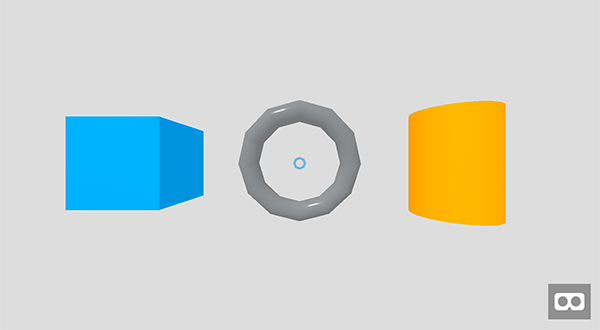
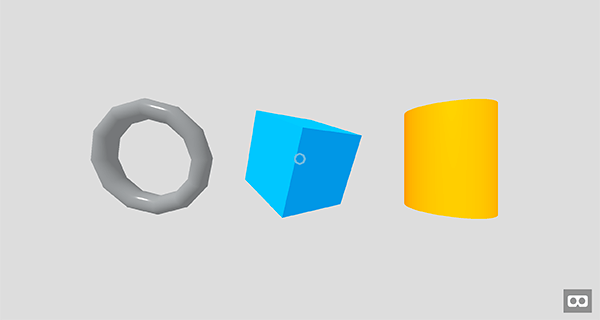
A-Frame: updated shape animations

diff --git a/A-Frame/shapes.html b/A-Frame/shapes.html
@@ -8,14 +8,14 @@
 <body>
   <a-scene>
     <a-sky color="#DDDDDD"></a-sky>
-    <a-entity light="type: directional; color: #FFF; intensity: 0.3" position="-1 1 2"></a-entity>
-    <a-entity light="type: ambient; color: #fff"></a-entity>
+    <a-light type="directional" color="#FFF" intensity="0.5" position="-1 1 2"></a-light>
+    <a-light type="ambient" color="#FFF"></a-light>
     <a-camera position="0 1 4" cursor-visible="true" cursor-scale="2" cursor-color="#0095DD" cursor-opacity="0.5"></a-camera>
-    <a-cube color="#0095DD" rotation="0 0 0" position="-3 1 0">
-      <a-animation attribute="rotation" from="20 0 0" to="20 360 0" dur="4000" repeat="indefinite" easing="linear"></a-animation>
+    <a-cube color="#0095DD" rotation="20 40 0" position="0 1 0">
+      <a-animation attribute="rotation" from="20 0 0" to="20 360 0" direction="alternate" dur="4000" repeat="indefinite" easing="ease"></a-animation>
     </a-cube>
-    <a-entity geometry="primitive: torus; radius: 1; radiusTubular: 0.1; segmentsTubular: 12;" material="color: #EAEFF2; roughness: 0.1; metalness: 0.5;" rotation="10 0 0" position="0 1 0">
-    <a-animation attribute="scale" to="1 0 1" easing="ease-out" direction="alternate" dur="2000" repeat="indefinite"></a-animation>
+    <a-entity geometry="primitive: torus; radius: 1; radiusTubular: 0.1; segmentsTubular: 12;" material="color: #EAEFF2; roughness: 0.1; metalness: 0.5;" rotation="10 0 0" position="-3 1 0">
+    <a-animation attribute="scale" to="1 0.5 1" direction="alternate" dur="2000" repeat="indefinite" easing="linear"></a-animation>
     </a-entity>
   </a-scene>
   <script>

diff --git a/A-Frame/cube.html b/A-Frame/cube.html
@@ -8,7 +8,7 @@
 <body>
 	<a-scene>
 		<a-sky color="#DDDDDD"></a-sky>
-		<a-cube color="#0095DD" position="0 1 0" rotation="10 20 0"></a-cube>
+		<a-cube color="#0095DD" position="0 1 0" rotation="20 40 0"></a-cube>
 	</a-scene>
 </body>
 </html>
